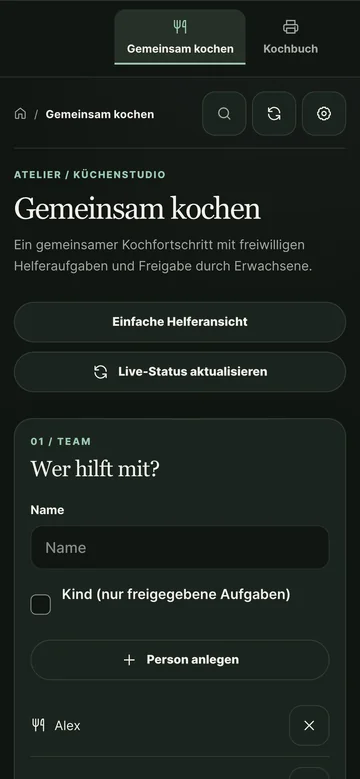
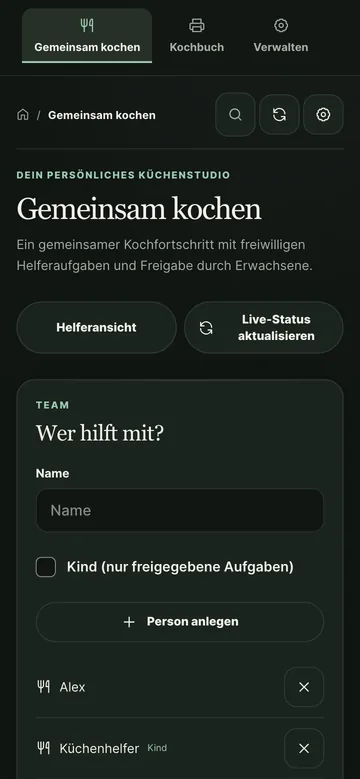
Gate the showcase on the old family names and recapture the German family shots

diff --git a/scripts/capture-app-showcase.py b/scripts/capture-app-showcase.py
@@ -4,7 +4,7 @@
   tablet    app-tablet-today, app-tablet-mealplan
   feature   feature-mealplan (the product page "Wochenplan" card: a narrow window, so four whole days read at 580 px)
   phone     app-phone-cookbook, app-phone-discover, app-phone-family, app-phone-family-helper,
-            app-phone-mealplan, app-phone-shopping (English only: the German phone shots carry no stale names)
+            app-phone-mealplan, app-phone-shopping (German and English)
 
 The shots come from the real card with the fixture data of the demo and a frozen clock (Thursday, October 29).
 Nothing is retouched. A gate fails the run when a shot shows a navigation name the card no longer uses
@@ -57,12 +57,12 @@ SHOTS = {
     "app-tablet-today": (TABLET, "today", None, ("de", "en")),
     "app-tablet-mealplan": (TABLET, "mealplan", None, ("de", "en")),
     "feature-mealplan": (FEATURE, "mealplan", None, ("de", "en")),
-    "app-phone-cookbook": (PHONE, "cookbook", None, ("en",)),
-    "app-phone-discover": (PHONE, "discover", None, ("en",)),
-    "app-phone-family": (PHONE, "family", None, ("en",)),
-    "app-phone-family-helper": (PHONE, "family", "adult-view", ("en",)),
-    "app-phone-mealplan": (PHONE, "mealplan", None, ("en",)),
-    "app-phone-shopping": (PHONE, "shopping", None, ("en",)),
+    "app-phone-cookbook": (PHONE, "cookbook", None, ("de", "en")),
+    "app-phone-discover": (PHONE, "discover", None, ("de", "en")),
+    "app-phone-family": (PHONE, "family", None, ("de", "en")),
+    "app-phone-family-helper": (PHONE, "family", "adult-view", ("de", "en")),
+    "app-phone-mealplan": (PHONE, "mealplan", None, ("de", "en")),
+    "app-phone-shopping": (PHONE, "shopping", None, ("de", "en")),
 }
 
 FILL = (
@@ -73,7 +73,9 @@ FILL = (
 # Capture only: the screen has no frame of its own, so the card draws no border and fills the whole viewport.
 CARD_FLAT = ".atelier{border:0!important;border-radius:0!important;box-shadow:none!important;min-height:100vh!important}"
 WHOLE_NAMES = ".atelier *{hyphens:manual!important;-webkit-hyphens:manual!important}"
-STALE = re.compile(r"Cook ideas|Meal planner|Family cooking")
+# Old navigation names and the old family names (tag "Helfermodus" / "Helper mode", button "Einfache Helferansicht" /
+# "Simple helper view"). The card now says "Helferansicht" / "Helper view" and tags the person "Kind" / "Child".
+STALE = re.compile(r"Cook ideas|Meal planner|Family cooking|Helfermodus|[Hh]elper mode|Einfache Helferansicht|Simple helper view")
 ENGLISH_LEAK = re.compile(r"KITCHEN STUDIO|\bMENU\b|\b(Overview|Today|Recipes|Shopping|Cookbook|Manage|Quick actions)\b")
 GERMAN_LEAK = re.compile(r"KÜCHENSTUDIO|\bMENÜ\b|\b(Übersicht|Heute|Rezepte|Einkaufsliste|Kochbuch|Verwalten|Schnellzugriff)\b")
 EXPECTED = {
